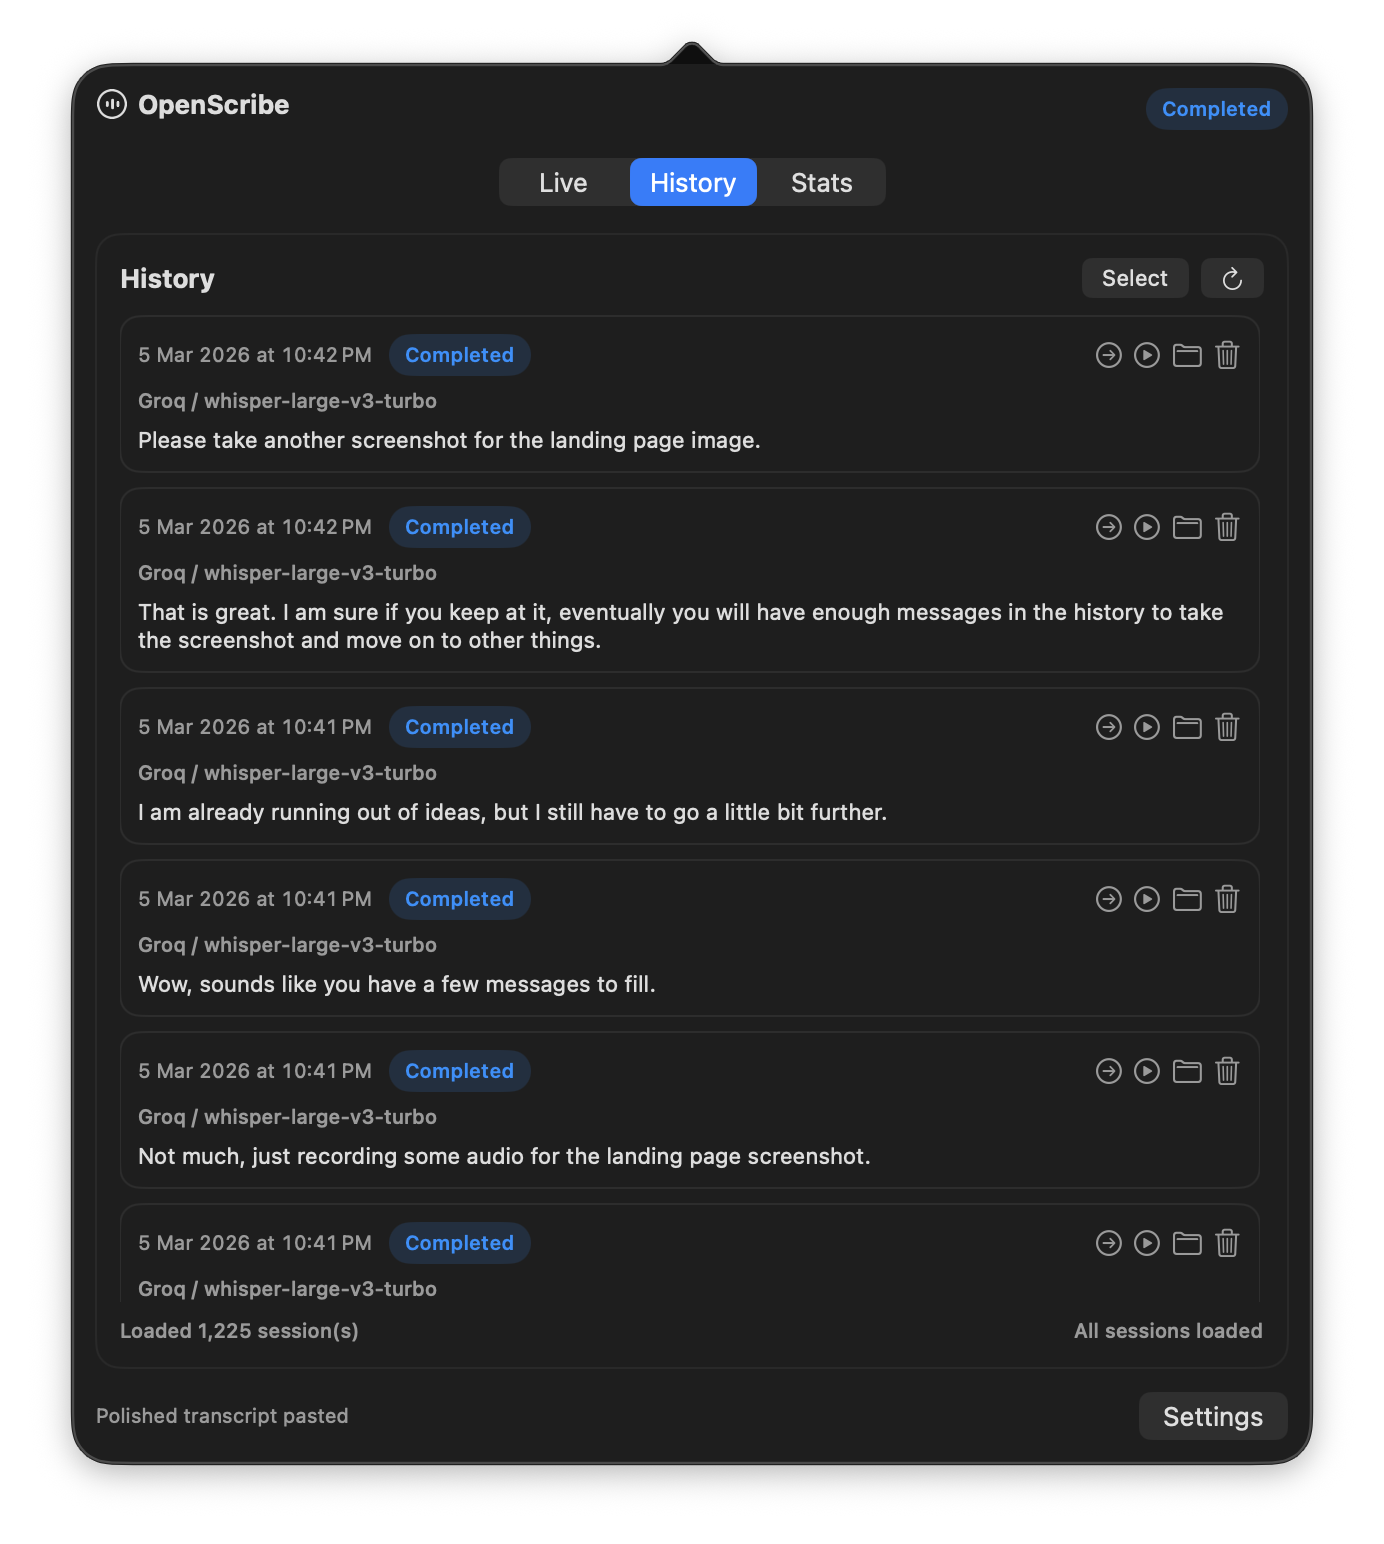
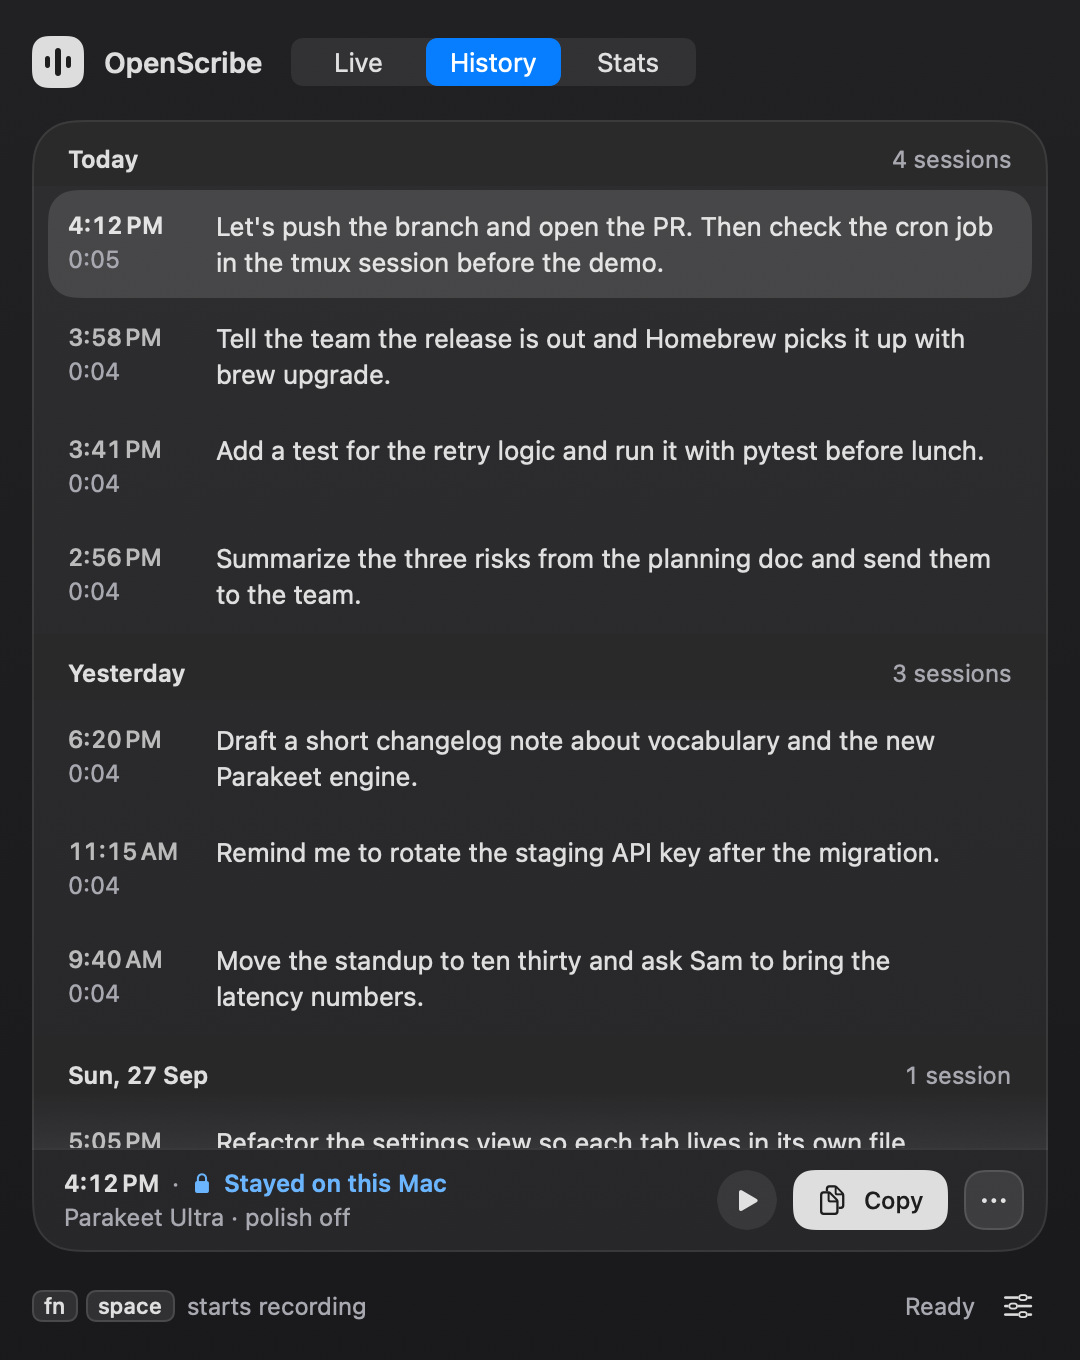
docs: describe the redesigned popover
Why
- The docs still described the stacked raw and polished panels and old sizes.

What
- Rewrite the spec Transcript UI section for Live, History, and Stats.
- Update the UI reference, guides, popover contract, and popover spec.
- Replace the Live, History, and Stats screenshots with demo data captures.
- Refresh the Vocabulary settings screenshots for the 64 built-in terms.

Instruction
- Update the docs and screenshots for the redesign, then release it.

diff --git a/site-docs/product/spec.md b/site-docs/product/spec.md
@@ -91,19 +91,24 @@ User guide: [Providers and Models](../guides/providers.md)
 
 ## Transcript UI
 
-- Popover has three main tabs: `Live`, `History`, `Stats`.
-- Raw transcript is shown in a read-only text panel.
-- OpenAI Realtime can update the raw transcript panel while recording.
-- Polished transcript is shown directly below raw text.
-- No raw or polished tab switcher.
-- Re-Transcribe supports per-session provider and model override with inline search and picker.
-- Re-Polish supports per-session provider and model override with inline search and picker.
-- Recording, transcribing, and polishing elapsed time is shown in the header state chip.
-- Loading text remains inside transcript text panels to keep popover height stable.
-- History starts with 10 sessions and supports load modes: `next 10`, `next 25`, `next 50`, `whole`.
-- History rows include direct actions for open session, play audio, reveal in Finder, and delete.
-- History supports bulk selection with bulk delete.
-- Stats includes aggregate overview, latest run metrics, and current session details.
+- Popover has three main tabs: `Live`, `History`, `Stats`, all at one size (`540 x 680`).
+- Blue marks work done on this Mac and orange marks work done in the cloud, in light and dark mode.
+- Live shows the record button with a live waveform, the timer, and the microphone picker.
+- Live shows the route of the current session: the transcription engine, polish (or a `Polish off` pill that opens Polish settings), and delivery, with timings once done.
+- Live states in one sentence what leaves the Mac, for example `Stayed on this Mac. Nothing was sent anywhere.`
+- With polish off, Live shows one transcript. With polish on, it switches between `Polished`, `Raw`, and `Changes`, a word-level comparison.
+- Words the vocabulary corrected are highlighted, with a note of what was heard and what it became.
+- OpenAI Realtime can update the raw transcript while recording.
+- Transcribe again and Polish again support a per-session provider and model override with inline search.
+- Model downloads show progress in Live, the setup assistant, and Settings.
+- History groups sessions by day and shows each time with its recording length.
+- History marks only exceptions: a cloud badge when audio or text left the Mac, and failed sessions with a Retry action.
+- The selected History session offers play, copy, open in Live, transcribe again, reveal in Finder, select several, and move to Trash.
+- History starts with 10 sessions and loads 25 more on request.
+- Stats shows words, speaking time, and pace for the last 7 days, 30 days, or all time, with a chart.
+- Stats shows a year of activity as a heatmap with the current and longest streak.
+- Stats shows where words went: sessions that stayed on this Mac, sent text to a polish provider, or sent audio to a cloud transcription provider.
+- Stats counts each session once, with its latest transcription, so retries do not add words twice.
 
 UI behavior contract:
 

diff --git a/site-docs/reference/ui-reference.md b/site-docs/reference/ui-reference.md
@@ -51,19 +51,19 @@ Open the popover to see the current run and browse recent sessions.
 
 ### Live tab
 
-The Live tab shows the active pipeline state, the current raw transcript, and the polished output when polish is enabled. You can also re-run transcription or polish here.
+The Live tab records and shows the current session. The top card holds the record button, a live waveform, the timer, and the microphone picker. The route below it shows each step and where it ran: blue means on this Mac, orange means the cloud, and one sentence says what left the Mac. The transcript card shows your text with vocabulary fixes highlighted. With polish on, switch between Polished, Raw, and Changes. Use Transcribe again or Polish again to rerun a step with another model.
 
 ![Live tab](/images/ui/openscribe-live.png){ .guide-shot data-light-src="/images/ui/openscribe-live.png" data-dark-src="/images/ui/openscribe-live-dark.png" }
 
 ### History tab
 
-The History tab lists previous sessions and gives you quick actions to replay audio, re-run processing, or reveal the session folder in Finder.
+The History tab groups past sessions by day. Select a session to play it, copy it, or open the menu to open it in Live, transcribe it again, reveal it in Finder, select several, or move it to the Trash. A cloud badge marks sessions that sent audio or text to the cloud, and failed sessions offer Retry.
 
 ![History tab](/images/ui/openscribe-history.png){ .guide-shot data-light-src="/images/ui/openscribe-history.png" data-dark-src="/images/ui/openscribe-history-dark.png" }
 
 ### Stats tab
 
-The Stats tab shows usage totals, recent activity, and longer-term patterns in how you use OpenScribe.
+The Stats tab shows how much you dictated in the last 7 days, 30 days, or all time, with speaking time and pace. Activity shows a year of dictation days with your streak, and Where your words went counts sessions that stayed on this Mac or used the cloud. More details lists all-time totals and the models you use most.
 
 ![Stats tab](/images/ui/openscribe-stats.png){ .guide-shot data-light-src="/images/ui/openscribe-stats.png" data-dark-src="/images/ui/openscribe-stats-dark.png" }
 

diff --git a/site-docs/guides/how-it-works.md b/site-docs/guides/how-it-works.md
@@ -2,7 +2,7 @@
 
 Every OpenScribe session follows the same path: record, transcribe, polish. Once you know that loop, the app becomes easy to read because the menu bar icon and the Live tab are always telling you where the current session is.
 
-![Live tab showing raw and polished output](/images/ui/openscribe-live.png){ .guide-shot data-light-src="/images/ui/openscribe-live.png" data-dark-src="/images/ui/openscribe-live-dark.png" }
+![Live tab after a recording](/images/ui/openscribe-live.png){ .guide-shot data-light-src="/images/ui/openscribe-live.png" data-dark-src="/images/ui/openscribe-live-dark.png" }
 
 ## 1. Record first
 
@@ -28,7 +28,7 @@ If the recording has no usable speech signal, OpenScribe skips transcription and
 
 If polish is enabled, OpenScribe sends the raw transcript to a language model that cleans up grammar, formatting, and structure. The polish step also uses your custom rules from `Rules/rules.md`, so you can steer tone, spelling, and formatting.
 
-The polished text appears below the raw transcript in the Live tab when the step finishes.
+The polished text appears in the Live tab when the step finishes. Switch to Raw to see the original, or to Changes to see what polish changed word by word.
 
 If polish is disabled, the polished output is a direct copy of the raw transcript.
 
@@ -42,7 +42,7 @@ The menu bar icon reflects the current pipeline state:
 - **Transcribing**: speech-to-text is running.
 - **Polishing**: the language model is cleaning up the transcript.
 
-The Live tab header also shows elapsed time for the current stage.
+The popover header shows the current stage, and the route in the Live tab shows how long each step took and whether it ran on this Mac or in the cloud.
 
 ## After the pipeline completes
 

diff --git a/docs/popover-spec.md b/docs/popover-spec.md
@@ -46,18 +46,15 @@ This applies to:
 ### History Pagination
 
 - Initial load is fixed to 10 sessions.
-- Load more options are fixed: `next 10`, `next 25`, `next 50`, `whole`.
+- `Show more` loads the next 25 sessions.
 
 ## Sizing Policy
 
-Popover size is deterministic by state.
+Popover size is fixed for every tab and state.
 
-### Requested Sizes
+### Requested Size
 
-- Live compact: `540 x 700`
-- Live expanded: `620 x 980`
-- History: `620 x 700`
-- Stats: `620 x 700`
+- Live, History, and Stats: `540 x 680` (`AppShell.popoverSize`)
 
 ### Screen-Aware Height Cap
 
@@ -77,10 +74,9 @@ Popover width is not scaled by screen cap.
 
 ### Live
 
-- Live content is rendered inside a vertical `ScrollView`.
-- Transcript panel heights are fixed per mode to avoid jumpy empty-to-filled reflow:
-  - Compact: `110`
-  - Expanded: `220`
+- The capture and route cards keep a fixed height.
+- The transcript card fills the remaining height and scrolls its text.
+- Empty, loading, and filled transcripts use the same card height, so the layout does not jump.
 
 ### History
 

diff --git a/site-docs/guides/vocabulary.md b/site-docs/guides/vocabulary.md
@@ -27,7 +27,7 @@ Tailscale
 
 1. Dictate as usual and note what OpenScribe wrote instead of the term, for example `Crone` for `cron`.
 2. Add the term with that spelling in Settings > Vocabulary: `cron: crone`. Save.
-3. Open the popover and use Re-Transcribe on the same session to check the result without dictating again.
+3. Open the popover and use Transcribe again on the same session to check the result without dictating again. The vocabulary note under the transcript shows each word it corrected.
 
 The most reliable sounds-like spellings are the exact words OpenScribe wrote. Short terms of five letters or fewer are only corrected when the transcript matches the term or one of its spellings closely, which keeps everyday words like "Tom" or "Miss" from turning into `TOML` or `mise`. Longer, distinctive terms such as `Kubernetes` usually work without extra spellings.
 

diff --git a/site-docs/guides/your-data.md b/site-docs/guides/your-data.md
@@ -4,7 +4,7 @@ OpenScribe stores its working files locally on your Mac. Nothing is synced anywh
 
 ## Find what you need from the app
 
-If you want to revisit a past session, start in the History tab. Each row can replay the recording, re-run processing, or reveal the session folder in Finder.
+If you want to revisit a past session, start in the History tab. Select a session to replay or copy it, or use its menu to transcribe it again or reveal the session folder in Finder.
 
 ![History tab with session list](/images/ui/openscribe-history.png){ .guide-shot data-light-src="/images/ui/openscribe-history.png" data-dark-src="/images/ui/openscribe-history-dark.png" }
 

diff --git a/site-docs/guides/getting-started.md b/site-docs/guides/getting-started.md
@@ -30,7 +30,7 @@ On a fresh install, OpenScribe opens a setup assistant in Settings and recommend
 3. Press `Fn + Space` again to stop.
 4. Click the menu bar icon to open the popover and see your transcript.
 
-The raw transcript appears first. If polish is enabled, the polished version appears below it in the same view.
+Your transcript appears in the Live tab. If polish is enabled, switch between the polished and raw text there.
 
 ![Live tab after a recording](/images/ui/openscribe-live.png){ .guide-shot data-light-src="/images/ui/openscribe-live.png" data-dark-src="/images/ui/openscribe-live-dark.png" }
 

diff --git a/site-docs/reference/popover-contract.md b/site-docs/reference/popover-contract.md
@@ -16,7 +16,7 @@ All tab changes route through one state entry point.
 
 ## Sizing policy
 
-Requested sizes are deterministic by tab or state.
+Every tab uses one size, `540 x 680`, so switching tabs never resizes the popover.
 Final height is capped by active display visible frame.
 
 ## Verification
